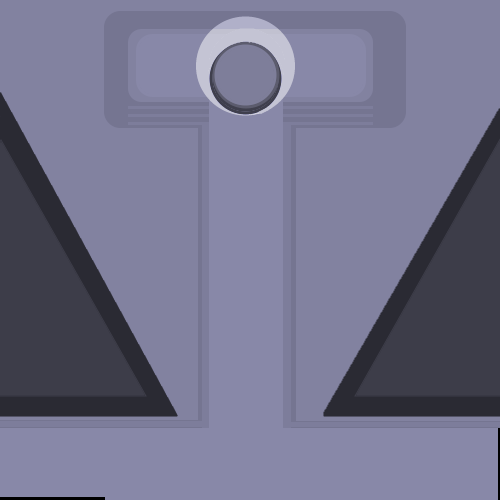
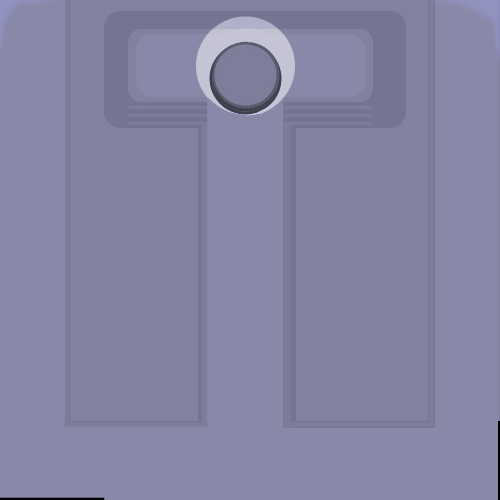
Implemented textures when gun has been picked up for player movement

diff --git a/Player.cpp b/Player.cpp
@@ -5,7 +5,9 @@
 #include <SDL.h>
 #include "Player.hpp"
 
-
+void Player::GunCollected() {
+	this->guncollected = true;
+}
 
 int Player::GetX() {
 	return this->PosX;
@@ -49,16 +51,36 @@ void Player::RenderPlayer(SDL_Renderer* renderer) {
 
 	switch (DIRECTION) {
 	case 1: // Left
-		newImagePath = "Images/PlayerLeft.png";
+		if (guncollected) {
+			newImagePath = "Images/PlayerGunLeft.png";
+		}
+		else {
+			newImagePath = "Images/PlayerLeft.png";
+		}
 		break;
 	case 2: // Right
-		newImagePath = "Images/PlayerRight.png";
+		if (guncollected) {
+			newImagePath = "Images/PlayerGunRight.png";
+		}
+		else {
+			newImagePath = "Images/PlayerRight.png";
+		}
 		break;
 	case 3: // Up
-		newImagePath = "Images/PlayerUp.png";
+		if (guncollected) {
+			newImagePath = "Images/PlayerGunUp.png";
+		}
+		else {
+			newImagePath = "Images/PlayerUp.png";
+		}
 		break;
 	case 4: // Down
-		newImagePath = "Images/PlayerDown.png";
+		if (guncollected) {
+			newImagePath = "Images/PlayerGunDown.png";
+		}
+		else {
+			newImagePath = "Images/PlayerDown.png";
+		}
 		break;
 	default:
 		std::cerr << "Invalid Direction!" << std::endl;

diff --git a/Game.cpp b/Game.cpp
@@ -10,9 +10,6 @@
 
 std::vector<std::string> inventory = {};
 int collected = 0;
-
-
-bool swordcollected = false;
 int Level::LevelIDCounter = 0;
 
 void Game::HandleEvents(SDL_Event& e, bool& running, SDL_Renderer* renderer) {
@@ -131,6 +128,7 @@ void Game::PauseMenu(SDL_Renderer* renderer, bool& running) {
 void Game::DisplayMessages(SDL_Renderer* renderer) {
     static int displaytime = 0;
     if (collected > 0 && collected < 2) {
+        Players[0]->GunCollected();
         // collected is 1 but messages is the 0th index of the array
         while (SDL_GetTicks() < displaytime + 1000) {
             Messages[collected - 1]->RenderMessage(renderer);

diff --git a/Player.hpp b/Player.hpp
@@ -16,6 +16,7 @@ private:
 	SDL_Rect PlayerPos = {};
 	SDL_Texture* texture = nullptr;
 	bool DEBUG_MODE = false; // for the programmer only
+	bool guncollected = false;
 
 public:
 
@@ -33,5 +34,6 @@ public:
 	void Move(int changeX, int changeY);
 	void DamagePlayer(int damage);
 	void RenderPlayerHP(SDL_Renderer* renderer);
+	void GunCollected();
 };
 #endif
